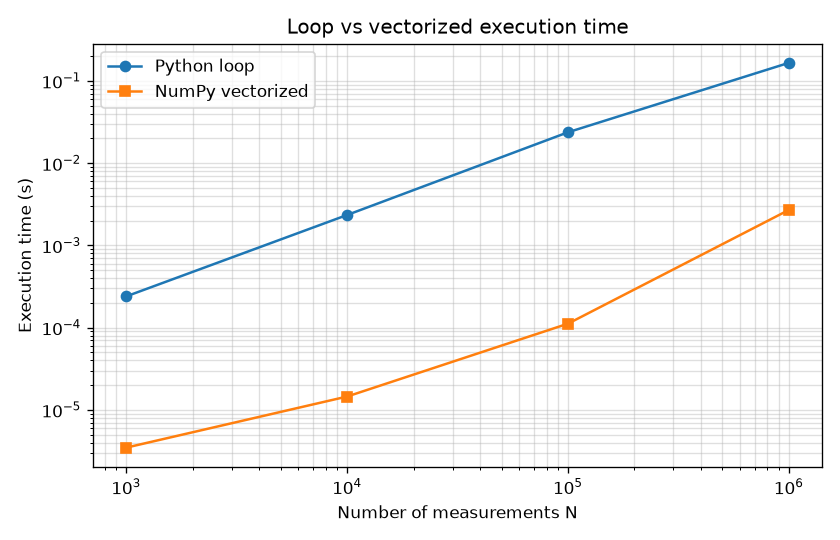
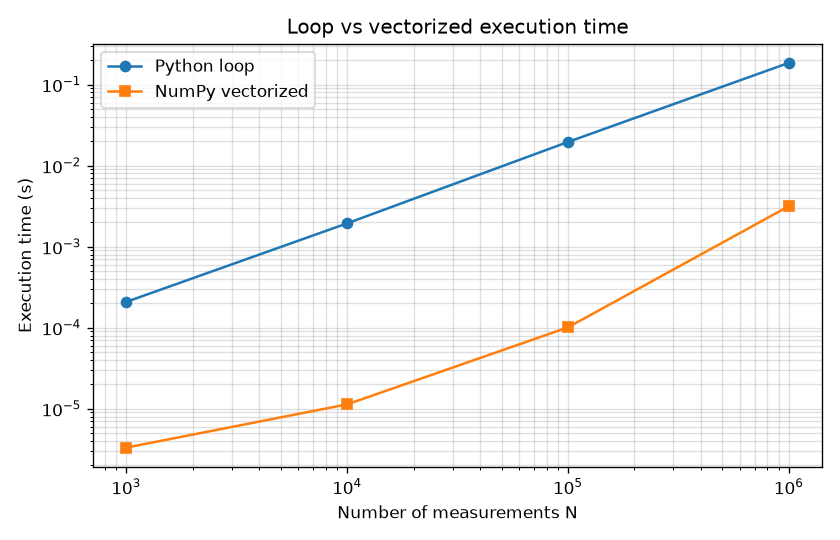
Task S: random numbers and Monte Carlo methods

Changed region(s): [[0.031, 0.0889, 0.9905, 0.8593]]

diff --git a/code/Task_20_monte_carlo.py b/code/Task_20_monte_carlo.py
@@ -1,0 +1,367 @@
+"""
+BIT 2118 Scientific Computing - Task S (Task 20)
+Random Numbers and Monte Carlo Methods
+=========================================================================
+
+Program file : code/Task_20_monte_carlo.py
+Run with     : python code/Task_20_monte_carlo.py
+Output graphs: figures/Task_20_monte_carlo.png
+               figures/Task_20_project_risk.png  (Part 4 case)
+
+-------------------------------------------------------------------------
+1. MATHEMATICAL CONCEPT
+-------------------------------------------------------------------------
+Monte Carlo methods estimate quantities by repeated random sampling.
+If an event has probability p, then in N independent simulations the
+observed fraction p_hat = (number of times it happened) / N approaches p
+as N grows (law of large numbers).
+
+Accuracy: p_hat has standard error
+        SE = sqrt( p_hat (1 - p_hat) / N ),
+and an approximate 95 % confidence interval is p_hat +/- 1.96 SE. The
+error shrinks like 1/sqrt(N): 100 times more simulations give only 10
+times more accuracy - but this rate does NOT depend on how complicated
+the model is, which is why Monte Carlo is used when no formula exists.
+
+Classic example: estimate pi by sampling points uniformly in the unit
+square and counting the fraction inside the quarter circle x^2+y^2 <= 1:
+        pi ~ 4 x (inside / total).
+
+Pseudo-random numbers come from a deterministic generator started from a
+seed; fixing the seed (default_rng(42)) makes results repeatable.
+
+-------------------------------------------------------------------------
+2. REAL-WORLD PROBLEM (from the assignment)
+-------------------------------------------------------------------------
+Estimate the probability that a network server becomes overloaded when
+incoming demand is uncertain: generate many random demand scenarios,
+check whether each exceeds capacity, and divide the number of overloads
+by the number of simulations.
+
+-------------------------------------------------------------------------
+3. INPUT VALUES AND MATHEMATICAL OPERATIONS  (Instruction B)
+-------------------------------------------------------------------------
+Inputs:
+    capacity    = 1000 requests per second
+    demand      ~ Normal(mean 850, standard deviation 120)
+    N           = 100 000 simulations, seed 42
+Operations:
+    rng.normal (random demand), comparison demand > capacity (Boolean
+    array), mean of Booleans = fraction overloaded, cumulative sum for
+    the running estimate, standard error / confidence interval, and the
+    exact normal-distribution answer 1 - Phi((1000 - 850)/120) for
+    checking (scipy.stats.norm).
+
+The script is organised in four parts that map to the instructions:
+    Part 1  Original solution                        (Instruction B)
+    Part 2  Change an input and compare results      (Instruction C)
+    Part 3  Meaning of the output and the graph      (Instruction D)
+    Part 4  Modified, related real-world case        (Instruction E)
+"""
+
+from pathlib import Path
+
+import matplotlib.pyplot as plt
+import numpy as np
+from scipy.stats import norm
+
+# Folder where graphs are saved (created next to the code/ folder)
+FIGURE_DIR = Path(__file__).resolve().parent.parent / "figures"
+FIGURE_DIR.mkdir(exist_ok=True)
+
+
+def overload_estimate(rng, capacity, mean, std, n):
+    """Monte Carlo estimate of P(demand > capacity) and its standard error."""
+    demand = rng.normal(mean, std, n)
+    overloaded = demand > capacity
+    p_hat = overloaded.mean()
+    se = np.sqrt(p_hat * (1 - p_hat) / n)
+    return p_hat, se, overloaded
+
+
+# =========================================================================
+# PART 1 - ORIGINAL SOLUTION  (Instruction B)
+# =========================================================================
+
+rng = np.random.default_rng(42)
+
+capacity = 1000.0
+mean_demand = 850.0
+std_demand = 120.0
+N = 100_000
+
+# Random demand scenarios
+demand = rng.normal(mean_demand, std_demand, N)
+
+overloaded = demand > capacity
+overload_probability = overloaded.mean()
+
+# Standard error and 95 % confidence interval of the estimate
+standard_error = np.sqrt(overload_probability * (1 - overload_probability)
+                         / N)
+ci_low = overload_probability - 1.96 * standard_error
+ci_high = overload_probability + 1.96 * standard_error
+
+# Exact answer (possible here because demand is normal) for checking
+z = (capacity - mean_demand) / std_demand
+exact_probability = 1 - norm.cdf(z)
+
+print("=" * 65)
+print("PART 1 - Original solution: server-overload probability")
+print("=" * 65)
+print(f"Estimated overload probability: {overload_probability:.4%}")
+print(f"Number of overload cases: {overloaded.sum()} out of {N}")
+print(f"Standard error: {standard_error:.4%}")
+print(f"95 % confidence interval: {ci_low:.3%} to {ci_high:.3%}")
+print(f"Exact probability 1 - Phi({z:.2f}) = {exact_probability:.4%}")
+print("Exact value inside the confidence interval:",
+      ci_low <= exact_probability <= ci_high)
+
+# Running probability to show convergence
+running_probability = np.cumsum(overloaded) / np.arange(1, N + 1)
+
+# Classic example from the concept section: estimating pi
+points = rng.random((N, 2))
+inside = (points**2).sum(axis=1) <= 1.0
+pi_estimate = 4 * inside.mean()
+print(f"\npi estimate from {N:,} random points: {pi_estimate:.5f} "
+      f"(error {abs(pi_estimate - np.pi):.5f})")
+
+
+# =========================================================================
+# PART 2 - CHANGE AN INPUT AND OBSERVE THE EFFECT  (Instruction C)
+# =========================================================================
+# Change 1: server capacity upgraded from 1000 to 1100 requests/s.
+#   Expected: overload needs demand more than 2.08 standard deviations
+#   above the mean instead of 1.25, so the probability falls from about
+#   10.6 % to about 1.9 %. Rarer events need more simulations for the same
+#   RELATIVE accuracy.
+#
+# Change 2: the number of simulations N is varied from 100 to 1 000 000
+#   (several independent repeats for each N).
+#   Expected: the spread of the estimates shrinks like 1/sqrt(N): each
+#   100x increase in N makes the typical error about 10x smaller.
+#
+# Change 3: the random seed is changed (42 -> 7, 2024).
+#   Expected: slightly different estimates, all within the confidence
+#   interval - the answer is random, but its uncertainty is predictable.
+
+p_up, se_up, _ = overload_estimate(np.random.default_rng(42), 1100.0,
+                                   mean_demand, std_demand, N)
+exact_up = 1 - norm.cdf((1100 - mean_demand) / std_demand)
+
+sizes = np.array([100, 1_000, 10_000, 100_000, 1_000_000])
+REPEATS = 30
+rng_study = np.random.default_rng(123)
+rms_errors = []
+for n in sizes:
+    estimates = [overload_estimate(rng_study, capacity, mean_demand,
+                                   std_demand, n)[0] for _ in range(REPEATS)]
+    rms_errors.append(np.sqrt(np.mean((np.array(estimates)
+                                       - exact_probability)**2)))
+rms_errors = np.array(rms_errors)
+theory_se = np.sqrt(exact_probability * (1 - exact_probability) / sizes)
+
+print()
+print("=" * 65)
+print("PART 2 - Effect of changing the inputs")
+print("=" * 65)
+print("Change 1 - capacity 1000 -> 1100:")
+print(f"  estimate {p_up:.4%} +/- {1.96 * se_up:.3%}  (exact {exact_up:.4%})")
+print(f"  relative standard error {se_up / p_up:.1%} vs "
+      f"{standard_error / overload_probability:.1%} before")
+print()
+print(f"Change 2 - number of simulations ({REPEATS} repeats each):")
+print(f"{'N':>10}{'RMS error':>12}{'theory SE':>12}")
+for n, e, t in zip(sizes, rms_errors, theory_se):
+    print(f"{n:>10,}{e:>12.5f}{t:>12.5f}")
+print()
+print("Change 3 - different seeds (N = 100,000):")
+for seed in (42, 7, 2024):
+    p_s, se_s, _ = overload_estimate(np.random.default_rng(seed), capacity,
+                                     mean_demand, std_demand, N)
+    print(f"  seed {seed:>4}: {p_s:.4%} +/- {1.96 * se_s:.3%}")
+
+
+# =========================================================================
+# PART 3 - MEANING OF THE OUTPUT AND THE GRAPH  (Instruction D)
+# =========================================================================
+# Left graph : running estimate against number of simulations (log x),
+#              with the exact value and the +/-1.96 SE band.
+# Right graph: RMS error against N on log-log axes with slope -1/2.
+
+indices = np.unique(
+    np.logspace(1, np.log10(N), 200).astype(int)
+) - 1
+
+fig, (ax_r, ax_e) = plt.subplots(1, 2, figsize=(12, 4.5))
+n_axis = indices + 1
+band = 1.96 * np.sqrt(exact_probability * (1 - exact_probability) / n_axis)
+ax_r.fill_between(n_axis, exact_probability - band, exact_probability + band,
+                  color="gray", alpha=0.2, label="Exact +/- 1.96 SE")
+ax_r.semilogx(
+    n_axis,
+    running_probability[indices],
+    label="Running estimate"
+)
+ax_r.axhline(exact_probability, color="black", linestyle="--",
+             label=f"Exact {exact_probability:.2%}")
+ax_r.set_ylim(0, 0.25)
+ax_r.set_xlabel("Number of simulations")
+ax_r.set_ylabel("Estimated overload probability")
+ax_r.set_title("Monte Carlo estimate of server-overload risk")
+ax_r.legend(fontsize=8)
+ax_r.grid(True)
+
+ax_e.loglog(sizes, rms_errors, "o-", label="Observed RMS error")
+ax_e.loglog(sizes, theory_se, "k--", label="Theory sqrt(p(1-p)/N)")
+ax_e.set_xlabel("Number of simulations N")
+ax_e.set_ylabel("Error in probability")
+ax_e.set_title("Error shrinks like 1/sqrt(N)")
+ax_e.legend()
+ax_e.grid(True, which="both", alpha=0.3)
+fig.tight_layout()
+fig.savefig(FIGURE_DIR / "Task_20_monte_carlo.png", dpi=120)
+
+print()
+print("=" * 65)
+print("PART 3 - Interpretation")
+print("=" * 65)
+print(f"* The server is overloaded in about {overload_probability:.1%} of "
+      "demand scenarios - roughly")
+print("  1 period in 10. With 95 % confidence the true value lies between "
+      f"{ci_low:.2%} and {ci_high:.2%}.")
+print("  That is a high risk for a production service; extra capacity or")
+print("  auto-scaling is justified.")
+print(f"* Upgrading to 1100 req/s cuts the risk to about {p_up:.1%}.")
+print("* The simulation agrees with the exact normal-distribution answer,")
+print("  which validates the method; Monte Carlo becomes essential when the")
+print("  model is too complex for a formula (see Part 4).")
+print("* Graph (left): the estimate jumps around for small N, then settles")
+print("  inside the grey band around the exact value, which narrows as N")
+print("  grows. Graph (right): errors fall along a line of slope -1/2,")
+print("  matching the theory: 100x more simulations -> 10x smaller error.")
+
+
+# =========================================================================
+# PART 4 - MODIFIED REAL-WORLD CASE  (Instruction E)
+# =========================================================================
+# New case: schedule risk of a software project.
+#
+# Problem:
+#   A team must deliver a mobile banking app. The client wants it in 60
+#   working days. Each task's duration is uncertain. What is the
+#   probability of finishing on time, and what deadline can be promised
+#   with 90 % confidence?
+#
+# Project structure (task: optimistic, most likely, pessimistic days):
+#   1. Requirements          :  5,  8, 14
+#   then in PARALLEL:
+#   2a. Backend API           : 15, 22, 35
+#   2b. Mobile front-end      : 12, 18, 30
+#   then (needs both 2a and 2b finished):
+#   3. Integration & testing  : 10, 14, 25
+#   4. Deployment & review    :  3,  5, 10
+#   Total = T1 + max(T2a, T2b) + T3 + T4
+#
+# Assumptions:
+#   * Each duration follows a triangular distribution (min, mode, max),
+#     a common choice when only expert three-point estimates exist.
+#   * Task durations are independent.
+#   * N = 200 000 simulated projects, seed 2025.
+#
+# Why Monte Carlo: the max() of two random parallel tasks and the skewed
+# distributions mean there is no simple formula for the total. Simply
+# adding the "most likely" values (8 + 22 + 14 + 5 = 49 days) ignores
+# both the skew and the parallel-path effect and is over-optimistic.
+
+DEADLINE = 60
+N_PROJECTS = 200_000
+tasks = {
+    "Requirements": (5, 8, 14),
+    "Backend API": (15, 22, 35),
+    "Mobile front-end": (12, 18, 30),
+    "Integration & testing": (10, 14, 25),
+    "Deployment & review": (3, 5, 10),
+}
+
+rng_proj = np.random.default_rng(2025)
+durations = {name: rng_proj.triangular(*abc, size=N_PROJECTS)
+             for name, abc in tasks.items()}
+
+total = (durations["Requirements"]
+         + np.maximum(durations["Backend API"],
+                      durations["Mobile front-end"])
+         + durations["Integration & testing"]
+         + durations["Deployment & review"])
+
+naive_plan = sum(tasks[t][1] for t in ("Requirements", "Backend API",
+                                       "Integration & testing",
+                                       "Deployment & review"))
+p_on_time = (total <= DEADLINE).mean()
+se_on_time = np.sqrt(p_on_time * (1 - p_on_time) / N_PROJECTS)
+p50, p90 = np.percentile(total, [50, 90])
+frontend_critical = (durations["Mobile front-end"]
+                     > durations["Backend API"]).mean()
+
+print()
+print("=" * 65)
+print("PART 4 - Modified case: software project schedule risk")
+print("=" * 65)
+print(f"Plan using most-likely durations : {naive_plan} days")
+print(f"Mean simulated duration          : {total.mean():.1f} days")
+print(f"Median (50 % chance)             : {p50:.1f} days")
+print(f"90 % confidence finish           : {p90:.1f} days")
+print(f"P(finish within {DEADLINE} days)       : {p_on_time:.2%} "
+      f"(+/- {1.96 * se_on_time:.2%})")
+print(f"P(finish within {naive_plan} days)       : "
+      f"{(total <= naive_plan).mean():.2%}")
+print(f"Front-end is the longer parallel task in {frontend_critical:.1%} "
+      "of runs")
+
+fig2, (ax_h, ax_c) = plt.subplots(1, 2, figsize=(12, 4.5))
+ax_h.hist(total, bins=100, density=True, color="C0", alpha=0.7)
+for value, label, colour in ((naive_plan, f"Naive plan {naive_plan} d", "C2"),
+                             (DEADLINE, f"Deadline {DEADLINE} d", "C3"),
+                             (p90, f"90 % point {p90:.0f} d", "k")):
+    ax_h.axvline(value, color=colour, linestyle="--", label=label)
+ax_h.set_xlabel("Total project duration (days)")
+ax_h.set_ylabel("Probability density")
+ax_h.set_title("Distribution of project duration")
+ax_h.legend(fontsize=8)
+ax_h.grid(True, alpha=0.4)
+
+sorted_total = np.sort(total)
+cumulative = np.arange(1, N_PROJECTS + 1) / N_PROJECTS
+ax_c.plot(sorted_total, cumulative)
+ax_c.axvline(DEADLINE, color="C3", linestyle="--")
+ax_c.axhline(p_on_time, color="C3", linestyle=":")
+ax_c.annotate(f"{p_on_time:.0%} on time", (DEADLINE, p_on_time),
+              xytext=(8, -15), textcoords="offset points", fontsize=8)
+ax_c.set_xlabel("Deadline (days)")
+ax_c.set_ylabel("Probability of finishing by then")
+ax_c.set_title("Chance of meeting any deadline")
+ax_c.grid(True, alpha=0.4)
+fig2.tight_layout()
+fig2.savefig(FIGURE_DIR / "Task_20_project_risk.png", dpi=120)
+
+print()
+print("Interpretation:")
+print(f"* The 'most likely' plan of {naive_plan} days is met only "
+      f"{(total <= naive_plan).mean():.0%} of the time: the task")
+print("  distributions are skewed towards delays, and with two parallel")
+print("  tasks the project waits for whichever is slower.")
+print(f"* There is about a {p_on_time:.0%} chance of meeting the {DEADLINE}-day "
+      "deadline. To be 90 % sure,")
+print(f"  the team should promise about {np.ceil(p90):.0f} days or reduce scope.")
+print(f"* The front-end finishes later than the backend in {frontend_critical:.0%}"
+      " of runs, so")
+print("  both teams need monitoring - the critical path is itself random.")
+print(f"* Graph (left): the outcomes centre near {p50:.0f} days, well to the "
+      f"right of the")
+print(f"  naive {naive_plan}-day plan; only the small area left of the green "
+      "line is on time")
+print("  for that plan. Graph (right): read off the probability of finishing")
+print("  by any deadline.")
+
+plt.show()

diff --git a/README.md b/README.md
@@ -39,3 +39,4 @@ pip install -r requirements.txt
 | P | Ordinary Differential Equations – Euler Method | `code/Task_17_euler_ode.py` |
 | Q | Numerical Solution of ODEs Using SciPy | `code/Task_18_scipy_ode.py` |
 | R | Numerical Optimization | `code/Task_19_optimization.py` |
+| S | Random Numbers and Monte Carlo Methods | `code/Task_20_monte_carlo.py` |
